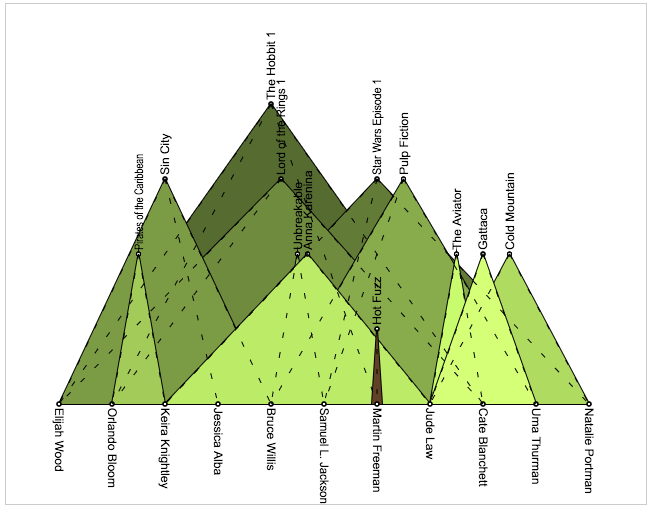
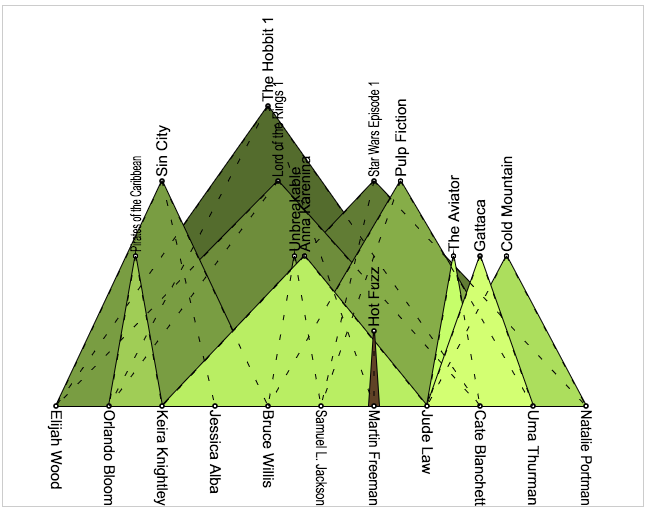
#1: Update tutorial with all the feedback from professor

diff --git a/MatrixArcs.js b/MatrixArcs.js
@@ -57,7 +57,7 @@ function drawBoard(){
         index = x/gridSpacing;
         if(index < nodesV.length){
             nodeV = nodesV[x/gridSpacing];
-            context.font = "10px Arial";
+            context.font = "15px Arial";
             context.fillText(nodeV.label,20,x+p+gridSpacing);
             if(nodeV.neighbors && nodeV.neighbors.length > 0){
                 nodeV.neighbors = nodeV.neighbors.sort((a, b) => a - b);
@@ -79,7 +79,7 @@ function drawBoard(){
             latestUs.push(nodeU.neighbors[nodeU.neighbors.length - 1]);
             context.save();
             context.rotate( Math.PI / 2 );
-            context.font = "10px Arial";
+            context.font = "15px Arial";
             context.fillText(nodeU.label,50,-p-gridSpacing-x);
             context.restore();
         }
@@ -91,6 +91,8 @@ function drawBoard(){
 
 drawBoard();
 clearFillClearCircles();
+clearFirstY();
+clearFirstX();
 clearUnusedV();
 clearUnusedU();
 
@@ -107,6 +109,18 @@ function clearFillClearCircles(){
         context.clearRect(circle.x-11, circle.y-21, 11, 12);
         context.clearRect(circle.x, circle.y-8, 3, 8);
     }
+}
+
+function clearFirstY(){
+    context.save();
+    context.clearRect(0.5 + p, p, 1, bh + p);
+    context.restore();
+}
+
+function clearFirstX(){
+    context.save();
+    context.clearRect(p, p, bw + p, 1);
+    context.restore();
 }
 
 function clearUnusedV(){

diff --git a/TwoLayers.js b/TwoLayers.js
@@ -23,7 +23,7 @@ function OrderedNode () {
 function initU() {
     root = [{id:0,x:0,y:0,label:"Lord of the Rings 1",type:1,pos:0,neighbors:[0,1,8]},
         {id:1,x:0,y:0,label:"The Hobbit 1",type:1,pos:0,neighbors:[0,1,8]},
-        {id:2,x:0,y:0,label:"Pirates of the Caribbean",type:1,pos:0,neighbors:[1,2]},
+        {id:2,x:0,y:0,label:"Pirates of the C.",type:1,pos:0,neighbors:[1,2]},
         {id:3,x:0,y:0,label:"Sin City",type:1,pos:0,neighbors:[0,3,4]},
         {id:4,x:0,y:0,label:"Pulp Fiction",type:1,pos:0,neighbors:[4,5,9]},
         {id:5,x:0,y:0,label:"Unbreakable",type:1,pos:0,neighbors:[4,5]},
@@ -178,7 +178,7 @@ function main() {
     draw = display.getContext('2d');
     draw.strokeStyle = 'black';
     draw.fillStyle = 'black';
-    draw.font = "12px Arial";
+    draw.font = "15px Arial";
 
     nodesU = initU();
     nodesV = initV();

diff --git a/index.html b/index.html
@@ -7,7 +7,8 @@
         <script src='TwoLayers.js'></script>
         <!--<script src='SphericalEmbedding.js'></script>-->
         <!--<script src='AnchoredMap.js'></script>-->
-        <!--<script src='Sierra.js'></script>-->
         <!--<script src='MatrixArcs.js'></script>-->
+        <!--<script src='MatrixArcs.js'></script>-->
+        <!--<script src='Sierra.js'></script>-->
     </body>
 </html>

diff --git a/AnchoredMap.js b/AnchoredMap.js
@@ -169,7 +169,7 @@ function main() {
     draw = display.getContext('2d');
     draw.strokeStyle = 'black';
     draw.fillStyle = 'black';
-    draw.font = "12px Arial";
+    draw.font = "15px Arial";
 
     nodesU = initU();
     nodesV = initV();

diff --git a/Sierra.js b/Sierra.js
@@ -253,7 +253,7 @@ function main() {
     draw = display.getContext('2d');
     draw.strokeStyle = 'black';
     draw.fillStyle = 'black';
-    draw.font = "12px Arial";
+    draw.font = "15px Arial";
 
     nodesU = initU();
     nodesV = initV();

diff --git a/tutorial/Bipartitas_Articulo.md b/tutorial/Bipartitas_Articulo.md
@@ -1,8 +1,9 @@
 ---
 title: Dibujando Grafos Bipartitas como Sierras
 author:
-- Oscar Arrieta / Jason Ocampo
-- Escuela de Informática, Universidad Nacional, Heredia, Costa Rica
+  - Oscar Arrieta / Jason Ocampo
+  - Escuela de Informática, Universidad Nacional, Heredia, Costa Rica
+header-includes:
 abstract: Un método para dibujar grafos bipartitas como Sierras es expuesto. Supongamos que existen dos grupos de nodos, U y V. Una Sierra va a ordenar los nodos del grupo V en el piso y los nodos del grupo U en una altura dependiendo de la cantidad de relaciones de ese nodo con el otro grupo. Además se dibujan triángulos para ejemplificar las montañas y se colorean de un tono verde dependiendo del tamaño. Este artículo explica el criterio estético y expone un algoritmo para poder dibujar cualquier grafo bipartita de esta manera. El rendimiento y objetivo son mencionados en las conclusiones.
 keywords: grafo bipartita, sierra, dibujo de grafo
 bibliography: bibliografia.bib
@@ -18,15 +19,15 @@ El modelo más común de grafos bipartitos es tal vez tener dos niveles horizont
 
 ## Áreas de aplicación
 
-Los gráficos bipartitos se utilizan ampliamente en la teoría de codificación, principalmente para decodificar las palabras de código. Los gráficos de factores y los gráficos de Tanner son ejemplos de esto, este último es un gráfico bipartito en el que los vértices de un lado de la bipartición representan dígitos de una palabra de código y los vértices del otro lado representan combinaciones de dígitos que se espera sumar a cero en una palabra de código sin errores.
+Los gráficos bipartitos se utilizan ampliamente en la teoría de codificación, principalmente para decodificar las palabras de código. Los gráficos de factores y los gráficos de Tanner [@R2015] son ejemplos de esto, este último es un gráfico bipartito en el que los vértices de un lado de la bipartición representan dígitos de una palabra de código y los vértices del otro lado representan combinaciones de dígitos que se espera sumar a cero en una palabra de código sin errores.
 
-Otro ejemplo a nivel informático son las redes de Petri, herramientas de modelado matemático utilizado en el análisis y simulaciones de sistemas concurrentes. Un sistema es modelado como un grafo bipartito dirigido con dos conjuntos de nodos: Un conjunto de nodos "lugar" que contienen recursos y un conjunto de nodos "evento" que generan y / o consumen recursos.
+Otro ejemplo a nivel informático son las redes de Petri [@Kibria], herramientas de modelado matemático utilizado en el análisis y simulaciones de sistemas concurrentes. Un sistema es modelado como un grafo bipartito dirigido con dos conjuntos de nodos: Un conjunto de nodos "lugar" que contienen recursos y un conjunto de nodos "evento" que generan y / o consumen recursos.
 
-En la geometría proyectiva, los gráficos de Levi son una forma de gráfico bipartito utilizado para modelar las incidencias entre puntos y líneas en una configuración. Correspondiendo a la propiedad geométrica de puntos y líneas que cada dos líneas se encuentran en un punto y cada dos puntos se conectan con una sola línea.
+En la geometría proyectiva, los gráficos de Levi [@Grunbaum2009] son una forma de gráfico bipartito utilizado para modelar las incidencias entre puntos y líneas en una configuración. Correspondiendo a la propiedad geométrica de puntos y líneas que cada dos líneas se encuentran en un punto y cada dos puntos se conectan con una sola línea.
 
-El trabajo en BIGSIR utiliza los datos de uso histórico de los servicios web para recomendar servicios web a los desarrolladores. Diferente de los enfoques existentes de recomendación de servicio web, BIGSIR adopta un gráfico bipartito para visualizar los servicios web y la relación entre ellos.
+El trabajo en BIGSIR [@R2015] utiliza los datos de uso histórico de los servicios web para recomendar servicios web a los desarrolladores. Diferente de los enfoques existentes de recomendación de servicio web, BIGSIR adopta un gráfico bipartito para visualizar los servicios web y la relación entre ellos.
 
-A nivel de protección de servidores de aplicaciones encontramos el uso de un algoritmo bipartito. Los IDS (Intrusion Detection Systems) monitorean y registran las peticiones capturando los eventos de red (alertas o actividades sospechosas) en un conjunto de datos multidimensional que almacena el origen, el tiempo y la naturaleza de cada evento. Aquí entra en juego el algoritmo AlertWheel el cual utiliza una visualización radial, y también muestra la ubicación, tiempo y naturaleza de muchos eventos a la vez. La visualización de tales ataques es útil para los analistas de red durante el brote de una infección virulenta Malware en Internet.
+A nivel de protección de servidores de aplicaciones encontramos el uso de un algoritmo bipartito. Los IDS (Intrusion Detection Systems) [@Dumas2006] monitorean y registran las peticiones capturando los eventos de red (alertas o actividades sospechosas) en un conjunto de datos multidimensional que almacena el origen, el tiempo y la naturaleza de cada evento. Aquí entra en juego el algoritmo AlertWheel el cual utiliza una visualización radial, y también muestra la ubicación, tiempo y naturaleza de muchos eventos a la vez. La visualización de tales ataques es útil para los analistas de red durante el brote de una infección virulenta Malware en Internet.
 
 # Antecedentes
 
@@ -61,22 +62,26 @@ Una convención típica para dibujar un grafo G es poner los vértices del grupo
  \label{fig:verticesUyV}
 \end{figure}
 
-El objetivo de dibujar un grafo bipartita con la técnica de dos capas es mejorar la visualización por medio de relaciones directas, las cuales son más intuitivas al ojo y razonamiento humano. Cualquier grafo bipartita puede ser dibujado por convertido a un plano de dos capas por medio de esta técnica.
+El beneficio de dibujar un grafo bipartita con la técnica de dos capas es mejorar la visualización por medio de relaciones directas, las cuales son más intuitivas al ojo y razonamiento humano. Cualquier grafo bipartita puede ser dibujado por convertido a un plano de dos capas por medio de esta técnica.
 
 ## Incrustación Esférica (Spherical Embedding)
 
-El algoritmo de incrustación esférica (SE por sus siglas en inglés) fue diseñado principalmente para visualización de grafos bipartitas[@Usui2007]. Los ítems de los dos grupos U y V son representados por medio de nodos posicionados en dos círculos concéntricos. Los ítems del grupo U son mapeados en el círculo interior y los ítems del grupo V son mapeados en el círculo exterior con un radio del doble del círculo interno. El propósito de este gráfico es posicionar los nodos de una manera que los items similares estén lo más cerca posible en cada uno de sus respectivos círculos. La Figura \ref{fig:transSE} muestra el proceso de construcción de un grafo bipartita y su visualización utilizando el algoritmo de incrustación esférica.
+El algoritmo de incrustación esférica (SE por sus siglas en inglés) fue diseñado principalmente para visualización de grafos bipartitas[@Usui2007]. Los ítems de los dos grupos U y V son representados por medio de nodos posicionados en dos círculos concéntricos. Los ítems del grupo U son mapeados en el círculo interior y los ítems del grupo V son mapeados en el círculo exterior con un radio del doble del círculo interno. El propósito de este gráfico es posicionar los nodos de una manera que los items similares estén lo más cerca posible en cada uno de sus respectivos círculos. La Figura \ref{fig:transSE} muestra el proceso de optimización desde los datos un grafo bipartita a su visualización utilizando el algoritmo de incrustación esférica después de ser ordenados por el algoritmo.
 
 \begin{figure}[h]
  \centering
  \includegraphics[width=0.5\textwidth]{media/image6.png}
- \caption{Transformación de Gráficos Bipartitas a SE.}
+ \caption{Optimización de Gráficos Bipartitas a SE.}
  \label{fig:transSE}
 \end{figure}
 
 Para conseguir esta visualización buscamos las coordenadas de los nodos del gráfico {xi,i = 1,...,|U| + |V|} que minimicen la distancia entre las relaciones (E) entre todos los pares de nodos. En algunos artículos esta minimización es realizada por medio de un procedimiento de descenso de gradiente la cual tiene un complejidad matemática avanzada por lo que hemos decido realizar este cálculo por medio de una heurística baricéntrica.
 
 Básicamente la heurística baricéntrica utilizada en el ejemplo intenta acercar los nodos relacionados entre sí, tanto en el círculo interior como en el exterior. Una forma de visualizar que esto se logra es ver la reducción de relaciones que pasan cerca del centro del gráfico; ya que al tener los nodos relacionados más cerca, las relaciones pasan a ser más cortas y no deberían cruzar el gráfico. [@Zheng2005]
+
+La incrustación esférica (SE) muestra una interesante capacidad de visualización de grafos bipartitas por medio de dos esferas. Después de varios grupos de datos hemos observado que los mejores diseños son obtenidos cuando el grafo es balanceado, lo que quiere decir que el número de ítems en cada uno de los grupos tienen el mismo rango. También encontramos casos cuando los nodos son colocados uniformemente gracias a que las relaciones entre los nodos están uniformemente distribuidos en el gráfico. Esto significa que el número de relaciones conectando cada nodo no debe de variar mucho entre los grupo, de otro modo veremos áreas limpias o en blanco en cada esfera. Es un efecto que los creadores llamaron el “efecto hueco” y asumen que probablemente relacionado a las propiedades de densidad del gráfico.
+
+Otro de los beneficios del SE es su rapidez ya que puede procesar miles de nodos en pocos segundos. Algunos de los usos que los autores proponen es la visualización de datos proveniente de investigaciones en instituciones donde se analiza mucha información, por ejemplo indexar términos de documentos en una base de datos de neurociencia. [@Usui2007]
 
 ## Mapa anclado (Anchored Map)
 
@@ -86,16 +91,9 @@ A continuación vamos a describir la técnica propuesta para dibujar mapas ancla
 
 Los mapas anclados restringen la posición de algunos nodos pero permite que otros nodos sean ordenados libremente. Los nodos restringidos son los llamados “anclas” y los demás son los nodos “libres”.
 
-Hay muchas variaciones en la restricción de los nodos anclas. La más simple es que cada ancla está fijo en una coordenada, también es posible restringir las anclas en una curva, en un área, etc. En la Figura \ref{fig:varBipartitas} podemos ver varios tipos de técnicas para dibujar un grafo bipartita.
+Hay muchas variaciones en la restricción de los nodos anclas. La más simple es que cada ancla está fijo en una coordenada, también es posible restringir las anclas en una curva, en un área, etc.
 
-\begin{figure}[h]
- \centering
- \includegraphics[width=0.5\textwidth]{media/image4.png}
- \caption{Variaciones de Gráficos Bipartitas.}
- \label{fig:varBipartitas}
-\end{figure}
-
-Y en el siguiente dibujo podemos ver cómo se ve un el mismo grafo bipartita dibujado como mapa anclado. Los nodos principales representados por la letra C son arreglados en forma de pentágono, y los nodos M son ordenados en una posición donde se pueda interpretar su relación con C. Como se puede observar en la Figura \ref{fig:ejemploMapaAnclado}: la distinción de nodos es más clara que en los gráficos anteriores.
+Y en el siguiente dibujo podemos ver cómo se ve un el mismo grafo bipartita dibujado como mapa anclado. Los nodos principales son arreglados en forma de polígono, y los otros nodos son ordenados en una posición donde se pueda interpretar su relación con el polígono. Como se puede observar en la Figura \ref{fig:ejemploMapaAnclado}: la distinción de nodos es más clara que en los gráficos anteriores.
 
 \begin{figure}[h]
  \centering
@@ -103,6 +101,8 @@ Y en el siguiente dibujo podemos ver cómo se ve un el mismo grafo bipartita dib
  \caption{Ejemplo de Mapa Anclado ordenado.}
  \label{fig:ejemploMapaAnclado}
 \end{figure}
+
+Respecto a los mapas anclados, los autores proponen y exponen esa técnica pero están preocupados por la lógica de ordenamiento de los nodos anclados. Existe una penalidad basada en los espacios entre nodos anclados relacionados con el mismo nodo libre. Proponen trabajar en un algoritmo más eficiente para manejar este caso pero están seguros que el algoritmo propuesto llega a brindar otra forma de analizar la información. [@Misue2006]
 
 ## Arcos en Matriz (Matrix Arcs)
 
@@ -118,6 +118,8 @@ La identificación de las relaciones una vez la matriz está completa es sencill
  \caption{Gráfico obtenido con nuestro algoritmo.}
  \label{fig:graficoArcos}
 \end{figure}
+
+Sobre el grafo de matriz con arcos, es una estructura muy explicíta, natural para quien analice la información. Un eje de coordendas que siempre permite hallar de manera inmediata las relaciones de los nodos (eje X y su contraparte en eje Y). La limpieza de la cuadrícula cuando se obtienen los máximos o últimos nodos de relación crean un grafo más limpio para su análisis. Si bien en primera instancia no se hace ningún ordenamiento a los datos de entrada (como en los otros algoritmos vistos) sería interesante comprobar alguna mejora de tipo promedio de los nodos relacionados o conforme al último nodo de relación para tratar de comprobar si el diseño final se puede mejorar.
 
 # Algoritmos de visualización propuesto
 
@@ -175,6 +177,8 @@ El algoritmo para dibujar este tipo de grafos es el siguiente (se puede observar
 
 El grupo U se colocará flotando dependiendo del valor de Y y el grupo V se colocará sobre el eje X con un valor de Y = 0 siempre.
 
+\begingroup\scriptsize
+
 1. Se ordenan los nodos U de mayor cantidad de vecinos a menor cantidad de vecinos.
 
 2. Se calculan las coordenadas de grupo V:
@@ -218,9 +222,11 @@ El grupo U se colocará flotando dependiendo del valor de Y y el grupo V se colo
 
     a. Se dibujan y pintan las sierras. En caso que sea sólo un vecino se pinta un pino.
 
+\endgroup
+
 \begin{figure}[h]
  \centering
- \includegraphics[width=0.5\textwidth]{media/image8.png}
+ \includegraphics[width=0.5\textwidth]{media/Sierra4.png}
  \caption{Gráfico obtenido con nuestro algoritmo.}
  \label{fig:graficoSierra}
 \end{figure}
